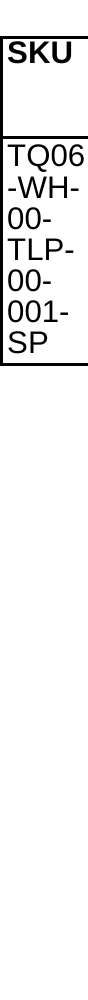
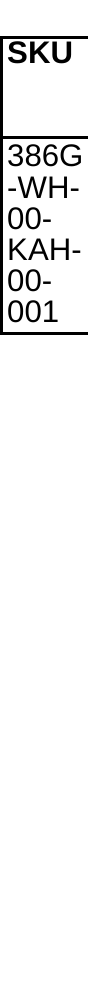
update

diff --git a/py30.py b/py30.py
@@ -168,7 +168,7 @@ def cut3(filepath):
     pdf_path = filepath
     i=0
     # indexpage = i+1
-    indexpage =73
+    indexpage =29
     # Bước 1: Đọc chỉ trang 116 (số bắt đầu từ 1)
     pages = convert_from_path(pdf_path, dpi=300, first_page=indexpage, last_page=indexpage)
 
@@ -216,8 +216,8 @@ def cut3(filepath):
     clean_text = skuss.replace('\n', ' ').replace('\r', ' ')
 
     skusss = re.findall(pattern, clean_text)
-    
-    skusss = [s.replace(" ", "") for s in skusss]
+
+   
 
     rs = skusss
     return rs
